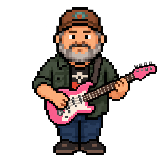
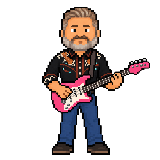
Update Daniel with taller slimmer Western-shirt sprites and uncovered hair

diff --git a/src/components/BandTravelers.tsx b/src/components/BandTravelers.tsx
@@ -6,7 +6,7 @@ import StageInstrument from './StageInstrument'
 const members = [
   { id: 'norris', name: 'Norris', role: 'Congas', height: .86 },
   { id: 'drew', name: 'Drew', role: 'Bass', height: 1 },
-  { id: 'daniel', name: 'Daniel', role: 'Lead vocals / lead guitar', height: .9 },
+  { id: 'daniel', name: 'Daniel', role: 'Lead vocals / lead guitar', height: .97 },
   { id: 'dan', name: 'Dan', role: 'Drums', height: .8 },
   { id: 'zane', name: 'Zena', role: 'Keys', height: 1 },
 ]
@@ -28,8 +28,8 @@ export default function BandTravelers() {
       data-performance-ready={performanceReady[member.id] ?? false}
       style={{ '--member-height': member.height } as CSSProperties}>
       {member.id === 'dan' && <span className="drum-riser" aria-hidden="true" />}
-      <span className="band-sprite" aria-hidden="true"><img className="band-sprite-sheet" src={`/art/band/${member.id}.png`} width="480" height="160" alt="" loading="eager" decoding="sync" fetchPriority="high" draggable={false} /></span>
-      {['daniel', 'drew'].includes(member.id) && <img className="performance-sprite" src={`/art/band/${member.id}-performance.png`} width="160" height="160" alt="" aria-hidden="true" loading="eager" onLoad={event => { void preparePerformance(member.id, event) }} onError={() => setPerformanceReady(ready => ({ ...ready, [member.id]: false }))} />}
+      <span className="band-sprite" aria-hidden="true"><img className="band-sprite-sheet" src={`/art/band/${member.id}.png${member.id === 'daniel' ? '?v=western-1' : ''}`} width="480" height="160" alt="" loading="eager" decoding="sync" fetchPriority="high" draggable={false} /></span>
+      {['daniel', 'drew'].includes(member.id) && <img className="performance-sprite" src={`/art/band/${member.id}-performance.png${member.id === 'daniel' ? '?v=western-1' : ''}`} width="160" height="160" alt="" aria-hidden="true" loading="eager" onLoad={event => { void preparePerformance(member.id, event) }} onError={() => setPerformanceReady(ready => ({ ...ready, [member.id]: false }))} />}
       <StageInstrument member={member.id} />
       <span className="sr-only">{member.name}{member.role ? ` — ${member.role}` : ''}</span>
     </li>)}

diff --git a/src/components/BandCards.tsx b/src/components/BandCards.tsx
@@ -14,7 +14,7 @@ export default function BandCards() {
     </div>
     <div className="band-card-track">
       {bandMembers.map((member, i) => <article className={`member-card card-${member.id}`} key={member.id} style={{ '--float-delay': `${i * -.8}s` } as CSSProperties}>
-        <div className="member-portrait"><img src={`/art/band/heads/${member.id}.png`} width="96" height="96" alt={`${member.name}'s pixel-art portrait`} /></div>
+        <div className="member-portrait"><img src={`/art/band/heads/${member.id}.png${member.id === 'daniel' ? '?v=western-1' : ''}`} width="96" height="96" alt={`${member.name}'s pixel-art portrait`} /></div>
         <span className="member-number">0{i + 1} / LAST LIVING SOULS</span><h3>{member.name}</h3><span className="member-role">{member.role}</span><p>{member.intro}</p>
       </article>)}
     </div>

diff --git a/design/daniel-western-prompts.md b/design/daniel-western-prompts.md
@@ -1,0 +1,21 @@
+# Daniel — Western outfit revision
+
+Generated with the built-in image-generation tool. Reference photographs were used for outfit and likeness; they are not copied into the repository.
+
+## Walking sheet prompt
+
+Use case: identity-preserve. Edit target image 1 is Daniel's existing three-frame transparent pixel-art sprite sheet. Image 2 is the outfit reference: black fitted Western shirt, rust-red piping, cream/tan embroidered guitar and rope motifs with tiny turquoise accents, blue jeans and dark boots. Image 3 is Daniel's true face/hair reference: light skin, short swept-back sandy gray hair with short sides, full salt-and-pepper beard. Image 4 (Zena) is ONLY pixel-art scale/style reference, not identity.
+Create a replacement transparent three-frame sprite strip with exactly THREE evenly spaced square cells in ONE horizontal row, 3:1 canvas. Frame1 front-facing idle arms down; frame2 right-facing walking stride legs apart; frame3 right-facing passing step with alternate bent leg. Same Daniel in every frame. Remove his hat completely, show his swept-back hair and full gray beard. Make his body noticeably slimmer and longer-legged than the original, natural lean-average build (not skinny), proportions close to Zena's reference with a normal-sized head. Full black embroidered Western shirt tucked into blue jeans with belt, dark boots. No jacket. Keep the old chunky retro pixel-art style, dark pixel outlines, flat clustered shading and limited palette. All three figures identical head size, body height and shoe baseline, centered in each cell, generous clear margins, entire heads and boots visible. Character is about 90% of cell height. No guitar held in walking frames. TRUE alpha transparent background; no checkerboard pattern, labels, shadows or ground. Crisp hard square pixels, no blur or smooth painted rendering.
+
+## Performance prompt
+
+Use case: identity-preserve. Image 1 is the newly approved Daniel character sheet and is the authoritative identity/outfit/style reference. Image 2 is the old stage-performance sprite and is the pose and instrument reference ONLY.
+Create ONE full-body front-facing Daniel performing on electric guitar for this pixel-art game. Match image 1 exactly: slimmer long-legged build, uncovered short swept-back sandy gray hair, full gray salt-and-pepper beard, black embroidered Western shirt with red piping, cream guitar/rope motifs and turquoise highlights, blue jeans, dark boots. NO HAT, no jacket. Retain the same pink/magenta electric guitar with white pickguard from image 2 and the same front-facing performance stance. Guitar neck extends toward viewer's right. His left hand holds the fretboard and right hand rests on the strings at the guitar body; only TWO arms, no extra hands at sides. Both boots grounded and evenly aligned. Keep his physical height and head/body proportions the same as image1. Center the BODY/feet on the canvas (guitar may extend right), full hair and boots visible with margins. Transparent alpha background, square canvas, no ground shadow, no labels, no checkerboard. Retro chunky pixel art and dark stepped outlines with crisp square pixels as image1.
+
+## Integration
+
+- Generated sources: `design/band-sprites/daniel-western.png` and `design/performance-sprites/daniel-western-performance.png`.
+- Prepared assets: `public/art/band/daniel.png`, `public/art/band/daniel-performance.png`, `public/art/band/heads/daniel.png`.
+- Run `node scripts/prepare-daniel-western.mjs` to reproduce mechanical cropping and nearest-neighbor sizing.
+- Daniel's height is 0.97 of the shared size; Zena's is 1.00. Feet remain aligned to the same ground baseline.
+
